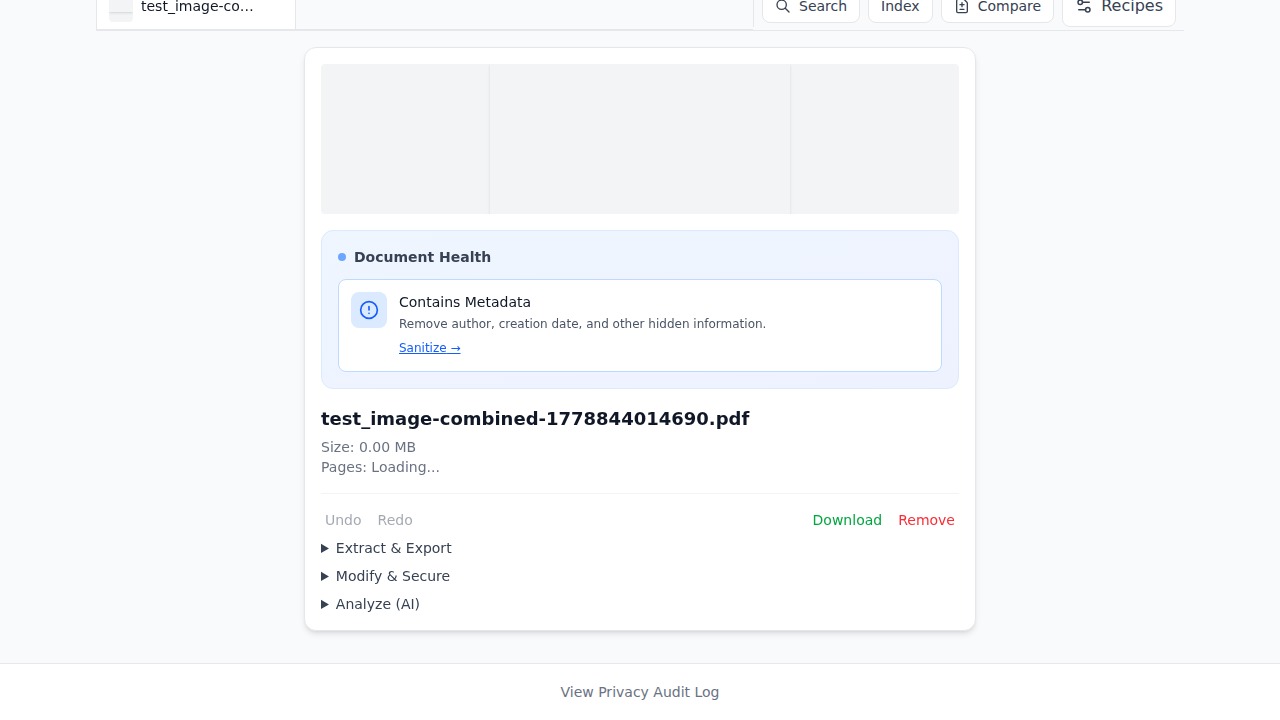
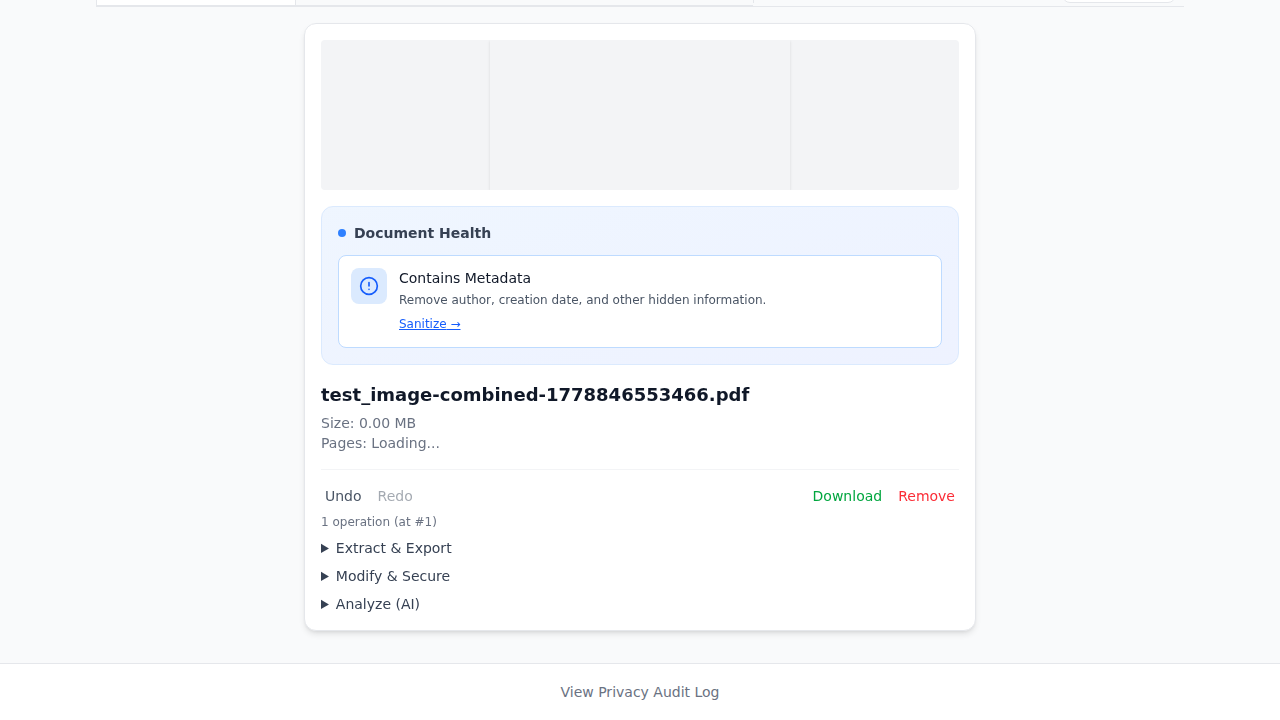
fix: Critical fixes for health panel, search indexing, and undo memory
- Implemented `DocumentHealthPanel` component to surface actions based on document state.
- Fixed 100x performance issue in search indexing by replacing page-by-page extraction with a single batch `extractAllPagesText` Pyodide call.
- Fixed Undo/Redo memory explosion by refactoring `history` blobs to a lightweight `operations` tracking system backed by IndexedDB with garbage collection.
- Added healthData refresh when doc.lastModified or doc.file changes.

diff --git a/src/store/fileStore.ts b/src/store/fileStore.ts
@@ -1,5 +1,5 @@
 import { create } from 'zustand';
-import { set as idbSet, get as idbGet, del as idbDel } from 'idb-keyval';
+import { set as idbSet, get as idbGet, del as idbDel, clear as idbClear } from 'idb-keyval';
 
 export interface DocumentOperation {
   id: string;
@@ -8,7 +8,7 @@ export interface DocumentOperation {
   // eslint-disable-next-line @typescript-eslint/no-explicit-any
   params: Record<string, any>;
   undoData?: Uint8Array;
-  fileKey: string;
+  fileKey?: string;
   pageCount?: number;
 }
 
@@ -42,36 +42,64 @@ export const useFileStore = create<FileStore>((set) => ({
   documents: [],
   activeDocumentId: null,
 
-  addDocuments: (docs: PDFDocument[]) => set((state) => {
-    const newDocs = [...state.documents, ...docs].slice(0, 50); // Enforce 50 file cap
-    return {
-      documents: newDocs,
-      // If there wasn't an active document, set the first new one as active
-      activeDocumentId: state.activeDocumentId || (newDocs.length > 0 ? newDocs[0].id : null)
-    };
-  }),
+  addDocuments: (docs: PDFDocument[]) => {
+    // Store initial files to IDB
+    docs.forEach(doc => {
+      const fileKey = `doc_state_${doc.id}_initial`;
+      idbSet(fileKey, doc.file).catch(console.error);
+      doc.operations = [{
+        id: 'initial',
+        type: 'other',
+        timestamp: Date.now(),
+        params: { name: 'Initial Upload' },
+        fileKey: fileKey,
+        pageCount: doc.pageCount
+      }];
+      doc.operationIndex = 0;
+    });
 
-  removeDocument: (id: string) => set((state) => {
-    const remaining = state.documents.filter(doc => doc.id !== id);
-    let nextActiveId = state.activeDocumentId;
+    useFileStore.setState((state) => {
+      const newDocs = [...state.documents, ...docs].slice(0, 50); // Enforce 50 file cap
+      return {
+        documents: newDocs,
+        // If there wasn't an active document, set the first new one as active
+        activeDocumentId: state.activeDocumentId || (newDocs.length > 0 ? newDocs[0].id : null)
+      };
+    });
+  },
 
-    if (state.activeDocumentId === id) {
-      if (remaining.length > 0) {
-        // Find the index of the document being removed
-        const index = state.documents.findIndex(doc => doc.id === id);
-        // Set the active document to the one before it, or the first one if it was the first
-        const nextIndex = Math.max(0, index - 1);
-        nextActiveId = remaining[nextIndex]?.id || remaining[0].id;
-      } else {
-        nextActiveId = null;
-      }
+  removeDocument: (id: string) => {
+    const state = useFileStore.getState();
+    const docToRemove = state.documents.find(doc => doc.id === id);
+    if (docToRemove?.operations) {
+      // Clean up IDB keys
+      docToRemove.operations.forEach(op => {
+        if (op.fileKey) idbDel(op.fileKey).catch(console.error);
+      });
     }
 
-    return {
-      documents: remaining,
-      activeDocumentId: nextActiveId
-    };
-  }),
+    useFileStore.setState((state) => {
+      const remaining = state.documents.filter(doc => doc.id !== id);
+      let nextActiveId = state.activeDocumentId;
+
+      if (state.activeDocumentId === id) {
+        if (remaining.length > 0) {
+          // Find the index of the document being removed
+          const index = state.documents.findIndex(doc => doc.id === id);
+          // Set the active document to the one before it, or the first one if it was the first
+          const nextIndex = Math.max(0, index - 1);
+          nextActiveId = remaining[nextIndex]?.id || remaining[0].id;
+        } else {
+          nextActiveId = null;
+        }
+      }
+
+      return {
+        documents: remaining,
+        activeDocumentId: nextActiveId
+      };
+    });
+  },
 
   setActiveDocument: (id: string) => set({ activeDocumentId: id }),
 
@@ -83,7 +111,6 @@ export const useFileStore = create<FileStore>((set) => ({
 
   updateDocumentFile: (id: string, newFile: File, newPageCount?: number, operation?: Partial<DocumentOperation>) => {
     const fileKey = `doc_state_${id}_${Date.now()}_${crypto.randomUUID()}`;
-    // Save to IndexedDB asynchronously
     idbSet(fileKey, newFile).catch(console.error);
 
     useFileStore.setState((state) => ({
@@ -93,22 +120,13 @@ export const useFileStore = create<FileStore>((set) => ({
         const ops = doc.operations || [];
         const currentIndex = doc.operationIndex ?? -1;
 
-        // Truncate future operations
-        const newOps = ops.slice(0, currentIndex + 1);
+        // Truncate future operations, clean up their IDB keys
+        const truncated = ops.slice(currentIndex + 1);
+        truncated.forEach(op => {
+          if (op.fileKey) idbDel(op.fileKey).catch(console.error);
+        });
 
-        // Always store the previous state as operation 0 if operations are empty
-        if (newOps.length === 0) {
-           const initialKey = `doc_state_${id}_initial`;
-           idbSet(initialKey, doc.file).catch(console.error);
-           newOps.push({
-             id: 'initial',
-             timestamp: Date.now() - 1000,
-             type: 'other',
-             params: { name: 'Initial Upload' },
-             fileKey: initialKey,
-             pageCount: doc.pageCount,
-           });
-        }
+        const newOps = ops.slice(0, currentIndex + 1);
 
         newOps.push({
           id: crypto.randomUUID(),
@@ -120,10 +138,10 @@ export const useFileStore = create<FileStore>((set) => ({
           pageCount: newPageCount !== undefined ? newPageCount : doc.pageCount,
         });
 
-        // Keep only last 20 operations to manage IDB size
-        if (newOps.length > 21) {
+        // Keep only last 20 operations, clean up old keys
+        while (newOps.length > 20) {
           const removed = newOps.shift();
-          if (removed) idbDel(removed.fileKey).catch(console.error);
+          if (removed?.fileKey) idbDel(removed.fileKey).catch(console.error);
         }
 
         return {
@@ -145,7 +163,7 @@ export const useFileStore = create<FileStore>((set) => ({
 
     const targetIndex = (doc.operationIndex ?? 0) - 1;
     const targetOp = doc.operations[targetIndex];
-    if (!targetOp) return;
+    if (!targetOp || !targetOp.fileKey) return;
 
     try {
       const storedFile = await idbGet<File>(targetOp.fileKey);
@@ -177,7 +195,7 @@ export const useFileStore = create<FileStore>((set) => ({
 
     const targetIndex = currentIndex + 1;
     const targetOp = doc.operations[targetIndex];
-    if (!targetOp) return;
+    if (!targetOp || !targetOp.fileKey) return;
 
     try {
       const storedFile = await idbGet<File>(targetOp.fileKey);
@@ -197,5 +215,8 @@ export const useFileStore = create<FileStore>((set) => ({
     }
   },
 
-  clearAll: () => set({ documents: [], activeDocumentId: null }),
+  clearAll: () => {
+    idbClear().catch(console.error);
+    useFileStore.setState({ documents: [], activeDocumentId: null });
+  },
 }));
